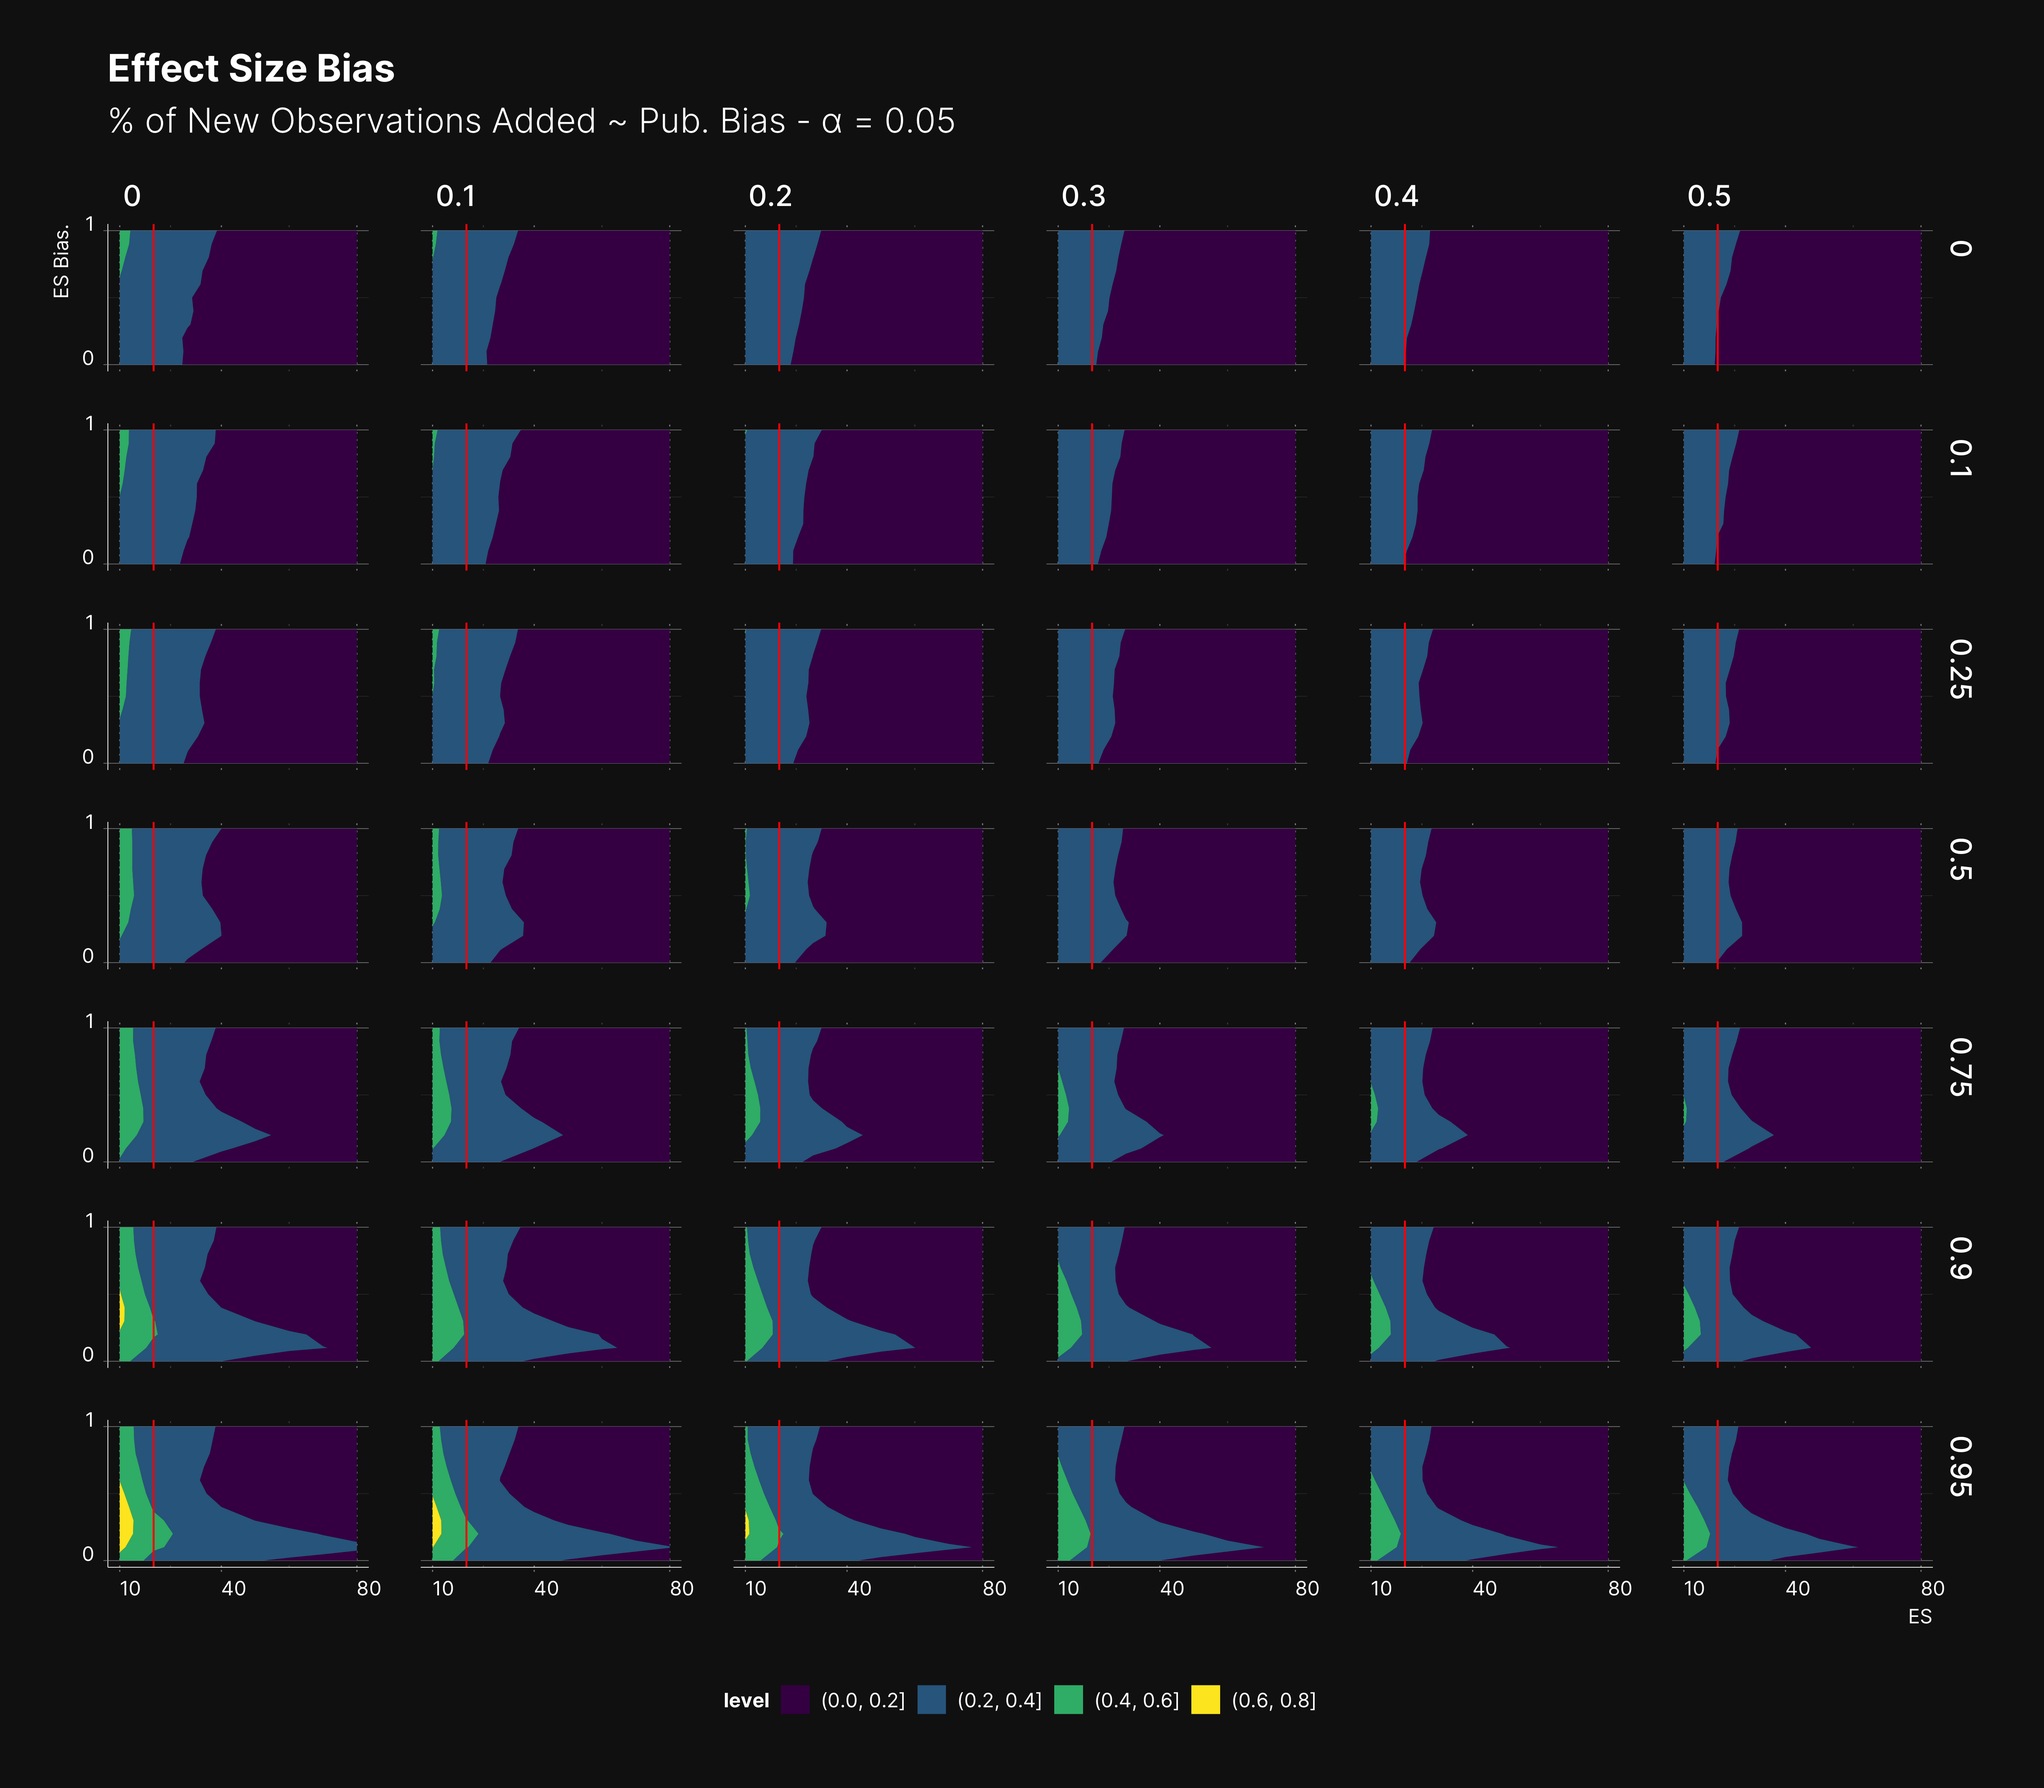
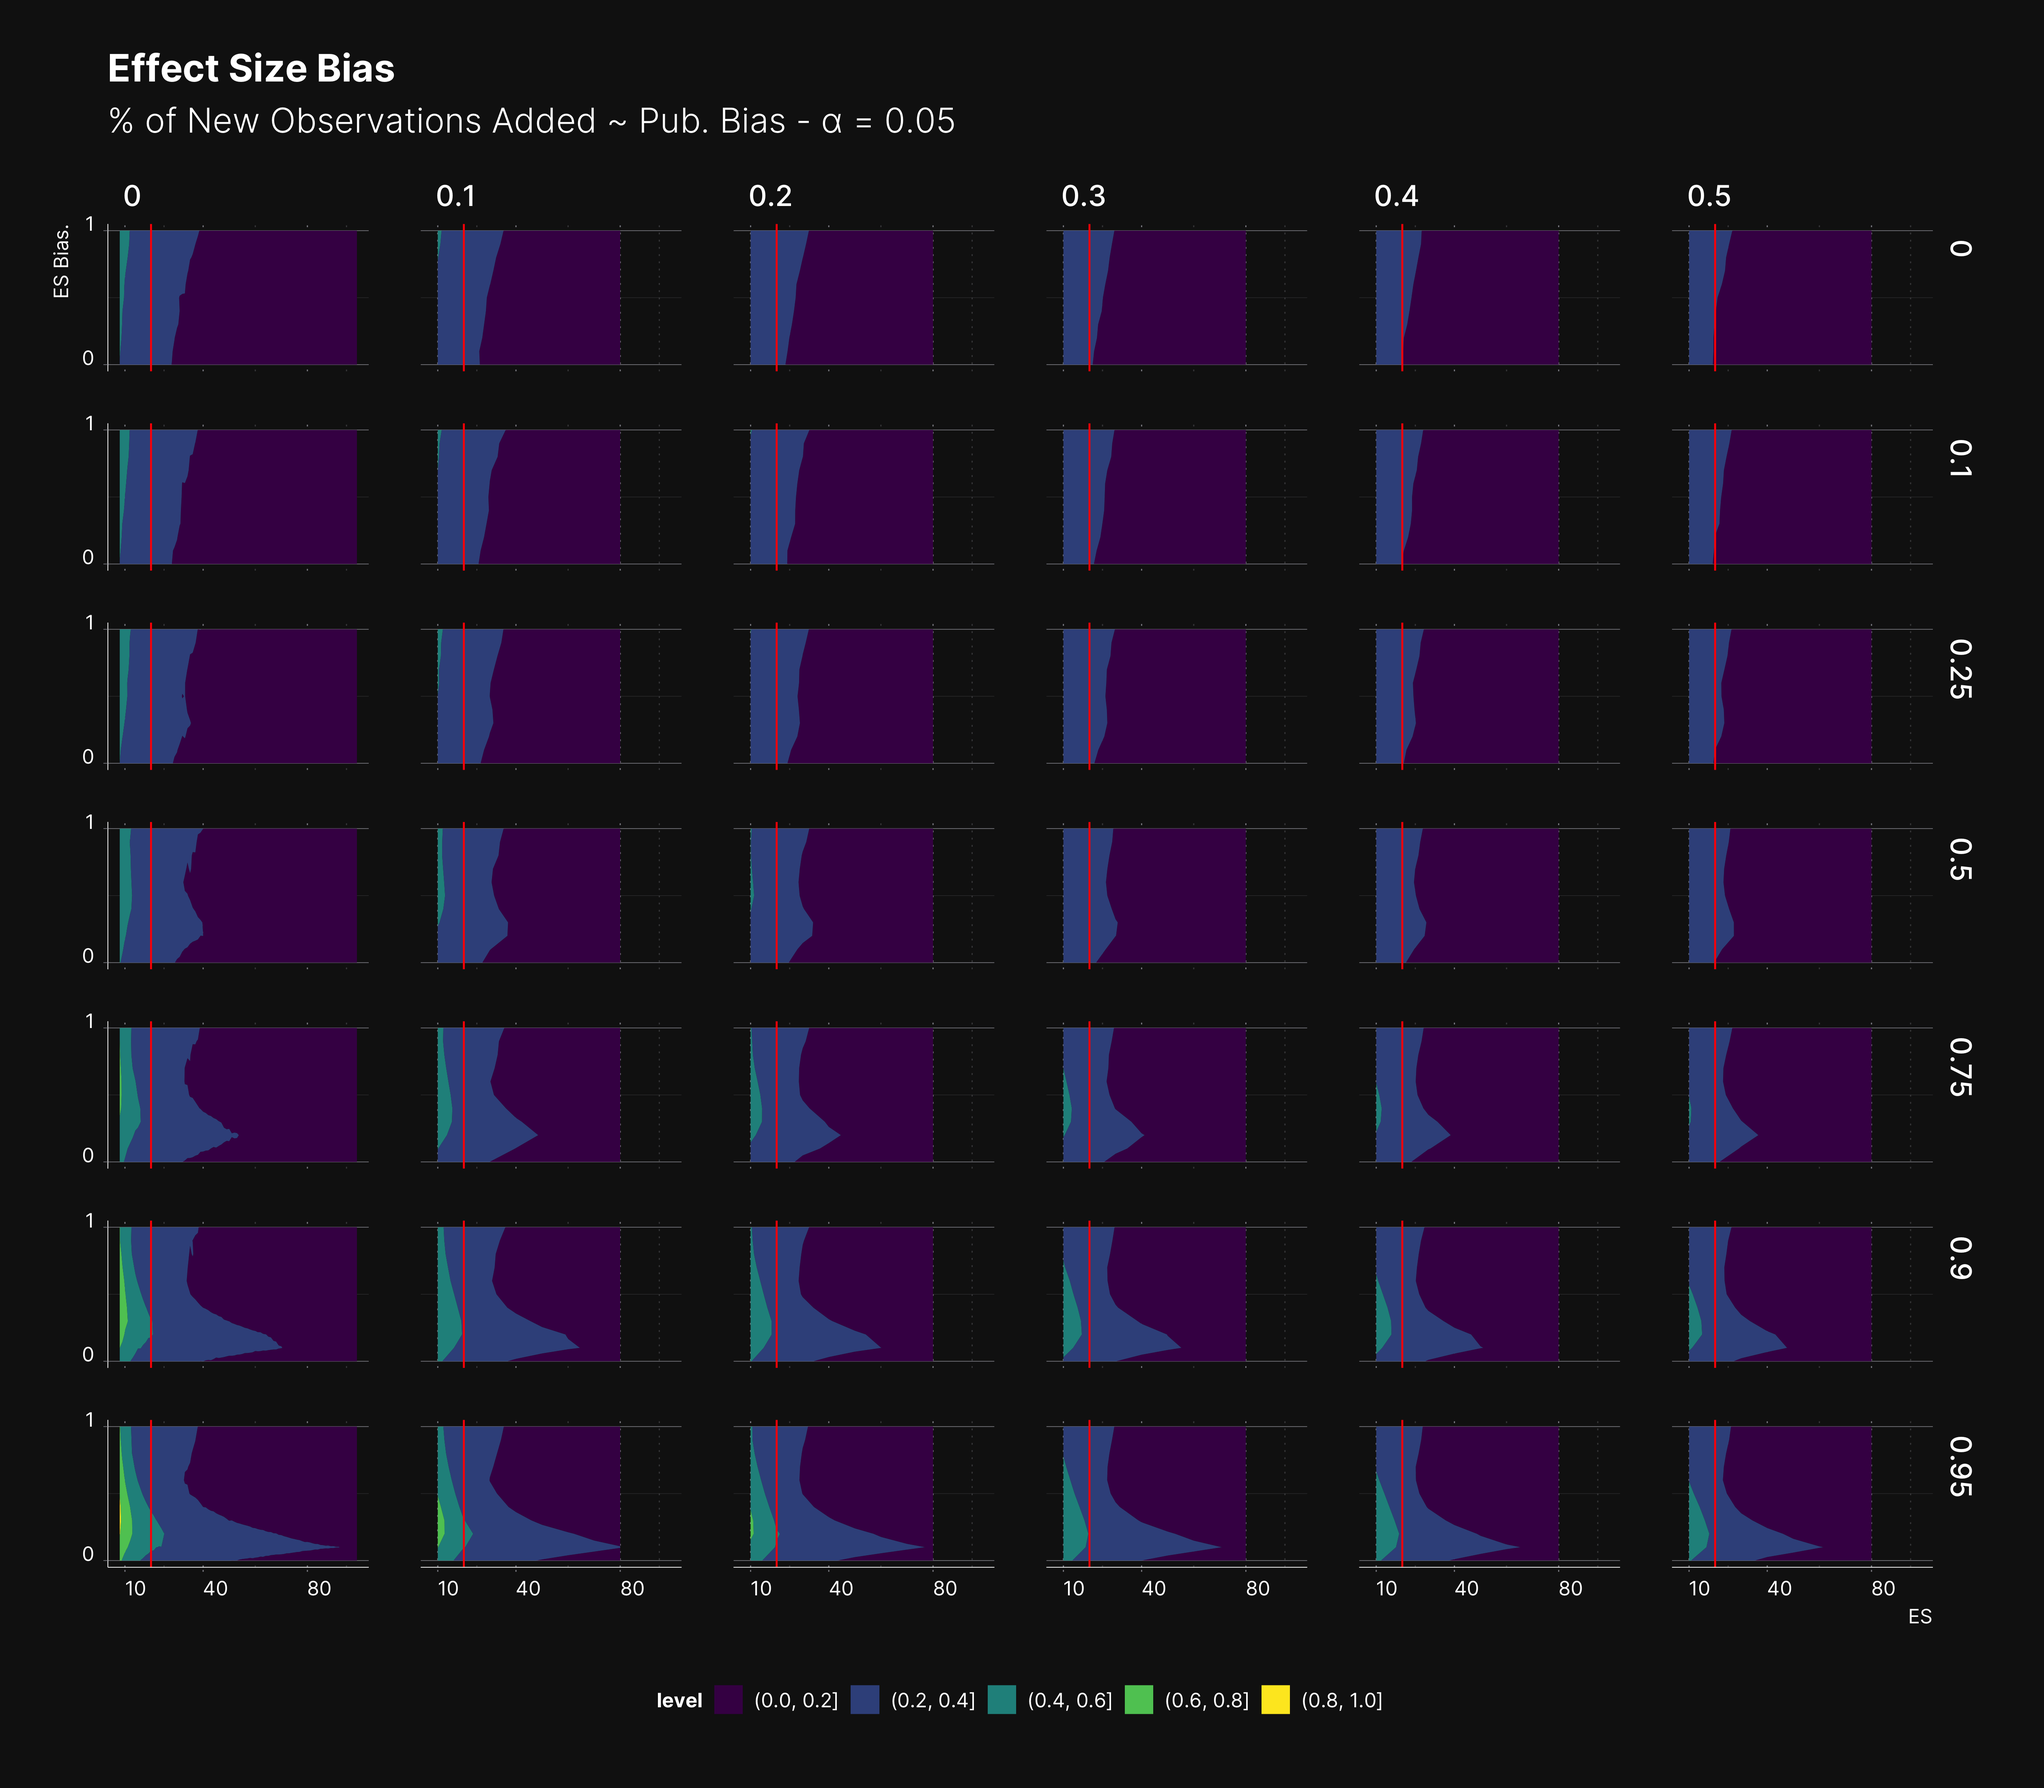
Updated some of the results, added new figures for Optional Stopping on Treatments

diff --git a/docs/studies/optional-stopping-variation.md b/docs/studies/optional-stopping-variation.md
@@ -1,6 +1,8 @@
 # Optional Stopping Variation
 
-# Probability of Finding Significant
+## Probability of Finding Significant
+
+
 
 ##### 2 Dependent Variables
 
@@ -146,10 +148,84 @@
 	</figure>
 
 
+## First Extension: Adding New Observation Only to Treatment Group
+
+### Effect Size Bias
+
+##### 2 Dependent Variables
+
+=== "0.05"
+
+	<figure>
+	  <picture>
+	    <source 
+	        srcset="/studies/figures/optional-stopping-variation/Comp_ES_Bias_0.05_attemps_1_dvs_2_Optional_Stopping_dark.png"
+	        media="(prefers-color-scheme: dark)">
+	    <img src="/studies/figures/optional-stopping-variation/Comp_ES_Bias_0.05_attemps_1_dvs_2_Optional_Stopping_light.png" />
+	  </picture>
+	</figure>
+
+=== "0.005"
+
+	<figure>
+	  <picture>
+	    <source 
+	        srcset="/studies/figures/optional-stopping-variation/Comp_ES_Bias_0.005_attemps_1_dvs_2_Optional_Stopping_dark.png"
+	        media="(prefers-color-scheme: dark)">
+	    <img src="/studies/figures/optional-stopping-variation/Comp_ES_Bias_0.005_attemps_1_dvs_2_Optional_Stopping_light.png" />
+	  </picture>
+	</figure>
+
+=== "0.0005"
+
+	<figure>
+	  <picture>
+	    <source 
+	        srcset="/studies/figures/optional-stopping-variation/Comp_ES_Bias_5e-04_attemps_1_dvs_2_Optional_Stopping_dark.png"
+	        media="(prefers-color-scheme: dark)">
+	    <img src="/studies/figures/optional-stopping-variation/Comp_ES_Bias_5e-04_attemps_1_dvs_2_Optional_Stopping_light.png" />
+	  </picture>
+	</figure>
+
+##### 4 Dependent Variables
+
+=== "0.05"
+
+	<figure>
+	  <picture>
+	    <source 
+	        srcset="/studies/figures/optional-stopping-variation/Comp_ES_Bias_0.05_attemps_1_dvs_4_Optional_Stopping_dark.png"
+	        media="(prefers-color-scheme: dark)">
+	    <img src="/studies/figures/optional-stopping-variation/Comp_ES_Bias_0.05_attemps_1_dvs_4_Optional_Stopping_light.png" />
+	  </picture>
+	</figure>
+
+=== "0.005"
+
+	<figure>
+	  <picture>
+	    <source 
+	        srcset="/studies/figures/optional-stopping-variation/Comp_ES_Bias_0.005_attemps_1_dvs_4_Optional_Stopping_dark.png"
+	        media="(prefers-color-scheme: dark)">
+	    <img src="/studies/figures/optional-stopping-variation/Comp_ES_Bias_0.005_attemps_1_dvs_4_Optional_Stopping_light.png" />
+	  </picture>
+	</figure>
+
+=== "0.0005"
+
+	<figure>
+	  <picture>
+	    <source 
+	        srcset="/studies/figures/optional-stopping-variation/Comp_ES_Bias_5e-04_attemps_1_dvs_4_Optional_Stopping_dark.png"
+	        media="(prefers-color-scheme: dark)">
+	    <img src="/studies/figures/optional-stopping-variation/Comp_ES_Bias_5e-04_attemps_1_dvs_4_Optional_Stopping_light.png" />
+	  </picture>
+	</figure>
+
 
 ## Appendix A: Effect of Different Number of Attemps in Optional Stopping
 
-# Effect Size Bis
+#### Effect Size Bias
 
 ##### 2 Dependent Variables
 
@@ -205,6 +281,78 @@
 	  <picture>
 	    <source 
 	        srcset="/studies/figures/optional-stopping-variation/App_A_Attemps_Effect_ES_Bias_0.005_dvs_4_Optional_Stopping_dark.png"
+	        media="(prefers-color-scheme: dark)">
+	    <img src="/studies/figures/optional-stopping-variation/App_A_Attemps_Effect_ES_Bias_0.005_dvs_4_Optional_Stopping_light.png" />
+	  </picture>
+	</figure>
+
+=== "0.0005"
+
+	<figure>
+	  <picture>
+	    <source 
+	        srcset="/studies/figures/optional-stopping-variation/App_A_Attemps_Effect_ES_Bias_5e-04_dvs_4_Optional_Stopping_dark.png"
+	        media="(prefers-color-scheme: dark)">
+	    <img src="/studies/figures/optional-stopping-variation/App_A_Attemps_Effect_ES_Bias_5e-04_dvs_4_Optional_Stopping_light.png" />
+	  </picture>
+	</figure>
+
+#### First Extension: Effect Size Bias
+
+##### 2 Dependent Variables
+
+=== "0.05"
+
+	<figure>
+	  <picture>
+	    <source 
+	        srcset="/studies/figures/optional-stopping-variation/Comp_App_A_Attemps_Effect_ES_Bias_0.05_dvs_2_Optional_Stopping_dark.png"
+	        media="(prefers-color-scheme: dark)">
+	    <img src="/studies/figures/optional-stopping-variation/Comp_App_A_Attemps_Effect_ES_Bias_0.05_dvs_2_Optional_Stopping_light.png" />
+	  </picture>
+	</figure>
+
+=== "0.005"
+
+	<figure>
+	  <picture>
+	    <source 
+	        srcset="/studies/figures/optional-stopping-variation/Comp_App_A_Attemps_Effect_ES_Bias_0.005_dvs_2_Optional_Stopping_dark.png"
+	        media="(prefers-color-scheme: dark)">
+	    <img src="/studies/figures/optional-stopping-variation/Comp_App_A_Attemps_Effect_ES_Bias_0.005_dvs_2_Optional_Stopping_light.png" />
+	  </picture>
+	</figure>
+
+=== "0.0005"
+
+	<figure>
+	  <picture>
+	    <source 
+	        srcset="/studies/figures/optional-stopping-variation/Comp_App_A_Attemps_Effect_ES_Bias_5e-04_dvs_2_Optional_Stopping_dark.png"
+	        media="(prefers-color-scheme: dark)">
+	    <img src="/studies/figures/optional-stopping-variation/Comp_App_A_Attemps_Effect_ES_Bias_5e-04_dvs_2_Optional_Stopping_light.png" />
+	  </picture>
+	</figure>
+
+##### 4 Dependent Variables
+
+=== "0.05"
+
+	<figure>
+	  <picture>
+	    <source 
+	        srcset="/studies/figures/optional-stopping-variation/Comp_App_A_Attemps_Effect_ES_Bias_0.05_dvs_4_Optional_Stopping_dark.png"
+	        media="(prefers-color-scheme: dark)">
+	    <img src="/studies/figures/optional-stopping-variation/Comp_App_A_Attemps_Effect_ES_Bias_0.05_dvs_4_Optional_Stopping_light.png" />
+	  </picture>
+	</figure>
+
+=== "0.005"
+
+	<figure>
+	  <picture>
+	    <source 
+	        srcset="/studies/figures/optional-stopping-variation/Comp_App_A_Attemps_Effect_ES_Bias_0.005_dvs_4_Optional_Stopping_dark.png"
 	        media="(prefers-color-scheme: dark)">
 	    <img src="/studies/figures/optional-stopping-variation/App_A_Attemps_Effect_ES_Bias_0.005_dvs_4_Optional_Stopping_light.png" />
 	  </picture>

diff --git a/docs/doxygen/Classes/structfmt_1_1formatter_3_01sam_1_1_experiment_01_4.md b/docs/doxygen/Classes/structfmt_1_1formatter_3_01sam_1_1_experiment_01_4.md
@@ -1,0 +1,30 @@
+---
+title: fmt::formatter< sam::Experiment >
+
+
+---
+
+# fmt::formatter< sam::Experiment >
+
+
+
+
+
+
+
+
+
+
+
+
+
+
+
+
+
+
+
+## Public Functions
+
+|                | Name           |
+| -------------- | -------------- |

diff --git a/docs/doxygen/Namespaces/namespacefmt.md b/docs/doxygen/Namespaces/namespacefmt.md
@@ -1,0 +1,21 @@
+---
+title: fmt
+
+
+---
+
+# fmt
+
+
+
+
+
+
+
+
+
+
+## Classes
+
+|                | Name           |
+| -------------- | -------------- |
